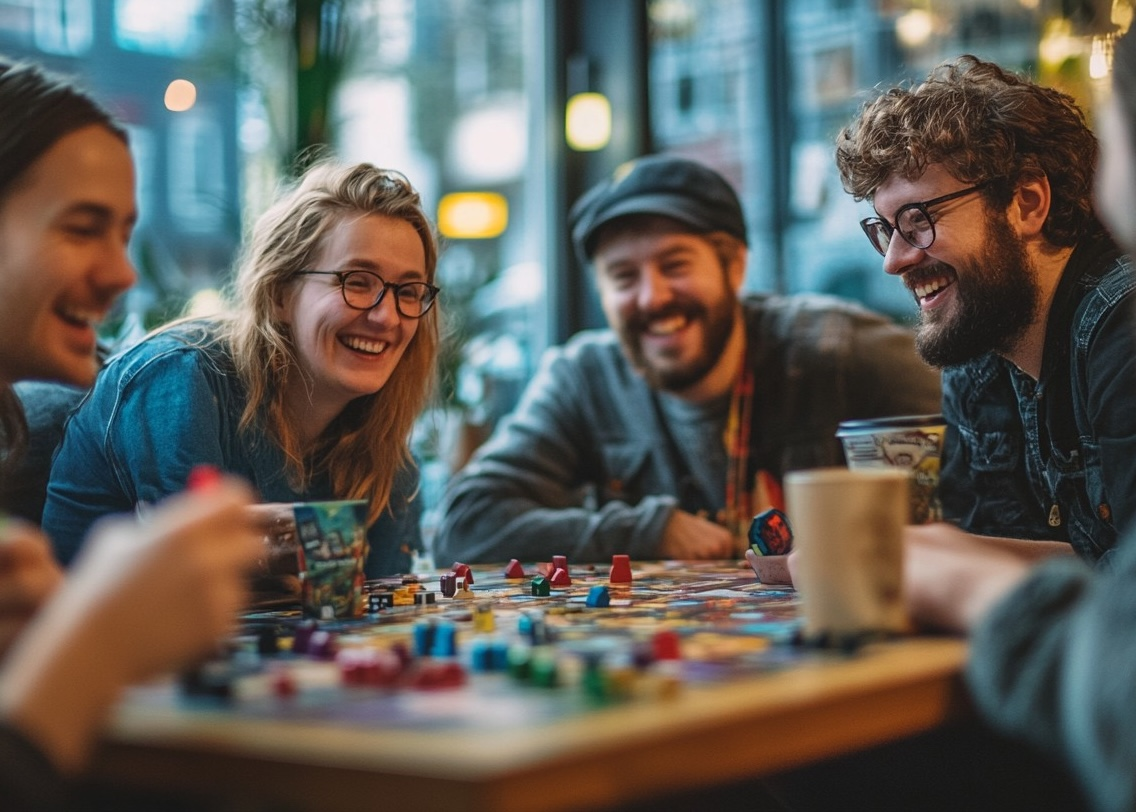
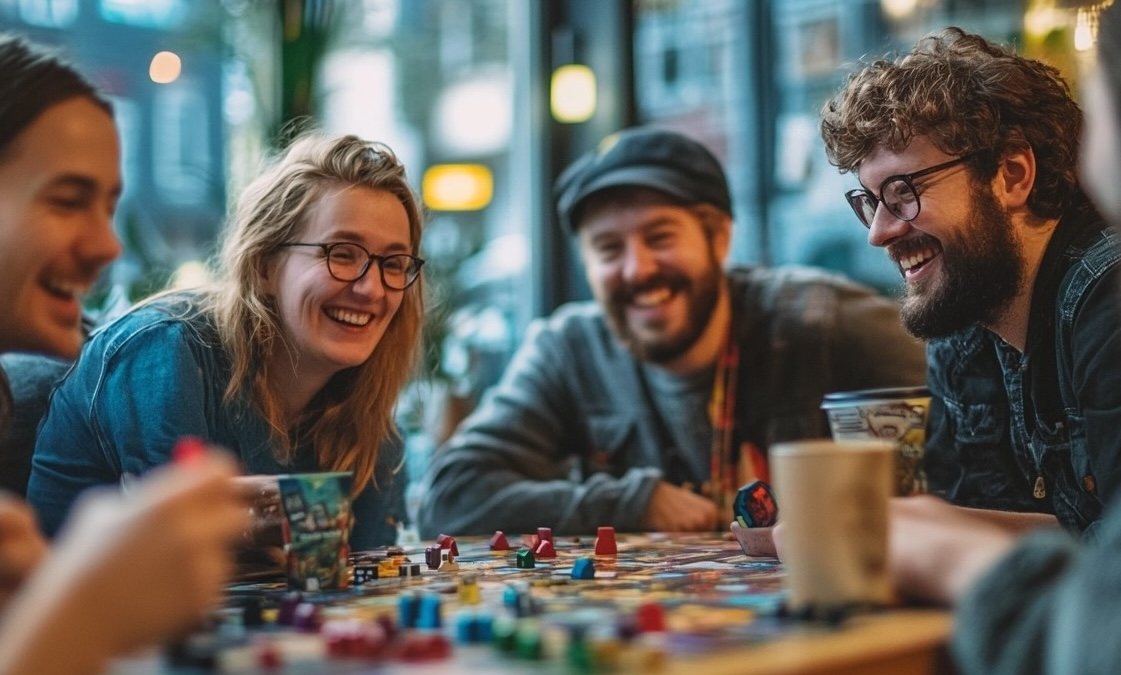
resizing of images and link added to connect

diff --git a/yourcourse.html b/yourcourse.html
@@ -9,21 +9,21 @@
     <script src="https://kit.fontawesome.com/3d8c8dc42e.js" crossorigin="anonymous"></script>
     <style>
         @import url('https://fonts.googleapis.com/css2?family=Poppins:ital,wght@0,100;0,200;0,300;0,400;0,500;0,600;0,700;0,800;0,900;1,100;1,200;1,300;1,400;1,500;1,600;1,700;1,800;1,900&display=swap');
-        </style>
+    </style>
     <link href="assets/css/style.css" rel="stylesheet">
     <title>Mental Health Awareness</title>
 
-     <!-- favicons generated by favicon.io -->
-     <link rel="apple-touch-icon" sizes="180x180" href="assets/images/apple-touch-icon.png">
-     <link rel="icon" type="image/png" sizes="32x32" href="assets/images/favicon-32x32.png">
-     <link rel="icon" type="image/png" sizes="16x16" href="assets/images/favicon-16x16.png">
+    <!-- favicons generated by favicon.io -->
+    <link rel="apple-touch-icon" sizes="180x180" href="assets/images/apple-touch-icon.png">
+    <link rel="icon" type="image/png" sizes="32x32" href="assets/images/favicon-32x32.png">
+    <link rel="icon" type="image/png" sizes="16x16" href="assets/images/favicon-16x16.png">
 
 </head>
 
 <body>
 
     <!-- Navigation -->
-    <nav id="navbar" class="navbar navbar-expand-lg fixed-top" data-bs-theme="dark">
+    <nav id="navbar" class="navbar navbar-expand-lg fixed-top">
         <div class="container">
             <a class="navbar-brand" href="index.html">
                 <img src="assets/images/logocircle.png" alt="Logo" class="logo">
@@ -75,12 +75,12 @@
                     <div class="col-lg-3 col-md-6 col-sm-12 mb-4 d-flex align-items-stretch justify-content-center">
                         <div class="card shadow" tabindex="0">
                             <a href="https://www.sleepfoundation.org/mental-health" target="_blank">
-                                <img src="assets/images/sleep.webp" alt="Sleep" class="card-img-top img-fluid"
+                                <img src="assets/images/sleep.jpg" alt="Sleep" class="card-img-top img-fluid"
                                     style="height: auto; width: 100%;">
                             </a>
                             <div class="card-body">
                                 <h5 class="card-title">Sleep</h5>
-                                <p class="card-text">Good sleep is essential for your mental wellbeing.</p>
+                                <p class="card-text">Sleep is essential for mental wellbeing it improves cognitive function, and reduce anxiety.</p>
                             </div>
                         </div>
                     </div>
@@ -107,7 +107,8 @@
                             </a>
                             <div class="card-body">
                                 <h5 class="card-title">Rest and Reset</h5>
-                                <p class="card-text">Techniques like meditation, deep breathing, or yoga can help you stay grounded and reduce anxiety.</p>
+                                <p class="card-text">Techniques like meditation, deep breathing, or yoga can help you
+                                    stay grounded and reduce anxiety.</p>
                             </div>
                         </div>
                     </div>
@@ -115,8 +116,8 @@
                         <div class="card shadow" tabindex="0">
                             <a href="https://www.mentalhealth.org.uk/explore-mental-health/a-z-topics/diet-and-mental-health"
                                 target="_blank">
-                                <img src="assets/images/nutritionmh.png" class="card-img-top img-fluid"
-                                    alt="Nutrition and Mental Health" style="height: auto; width: 100%;">
+                                <img src="assets/images/healthyeating.jpg" class="card-img-top img-fluid"
+                                    alt="healthy eating with friends" style="height: auto; width: 100%;">
                             </a>
                             <div class="card-body">
                                 <h5 class="card-title">Nutrition and Mental Health</h5>

diff --git a/connect.html b/connect.html
@@ -22,7 +22,7 @@
 
 <body>
     <!-- Navigation -->
-    <nav id="navbar" class="navbar navbar-expand-lg fixed-top" data-bs-theme="dark">
+    <nav id="navbar" class="navbar navbar-expand-lg fixed-top">
         <div class="container">
             <a class="navbar-brand" href="index.html">
                 <img src="assets/images/logocircle.png" alt="logo" class="logo">
@@ -105,7 +105,7 @@
                     </div>
                     <div class="col-lg-3 col-md-6 col-sm-12 mb-4 d-flex align-items-stretch justify-content-center">
                         <div class="card shadow" tabindex="0">
-                            <a href="#">
+                            <a href="https://tabletopgamesblog.com/2023/07/18/healthy-gaming-mentality-mental-health-and-board-games-topic-discussion/">
                                 <img src="assets/images/joinevent.jpg" class="card-img-top" alt="friends playing game">
                             </a>
                             <div class="card-body">

diff --git a/contact.html b/contact.html
@@ -25,7 +25,7 @@
     <body class="d-flex flex-column min-vh-100">
 
         <!-- Navigation -->
-    <nav id="navbar" class="navbar navbar-expand-lg fixed-top" data-bs-theme="dark">
+    <nav id="navbar" class="navbar navbar-expand-lg fixed-top">
         <div class="container">
             <a class="navbar-brand" href="index.html">
                 <img src="assets/images/logocircle.png" alt="Logo" class="logo">

diff --git a/index.html b/index.html
@@ -26,7 +26,7 @@
 
 <body class="d-flex flex-column min-vh-100">
     <!-- Navigation -->
-    <nav id="navbar" class="navbar navbar-expand-lg fixed-top" data-bs-theme="dark">
+    <nav id="navbar" class="navbar navbar-expand-lg fixed-top">
         <div class="container">
             <a class="navbar-brand" href="index.html">
                 <img src="assets/images/logocircle.png" alt="logo" class="logo">

diff --git a/assets/css/style.css b/assets/css/style.css
@@ -31,7 +31,7 @@ h1 h2 h3 h4 h5 h6{
 
 #navbar {
     background-color: var(--primary-color);
-    color: rgb(12, 12, 131);
+    color: rgb(10, 10, 80);
     width: 100%;
     position: fixed;
 }
